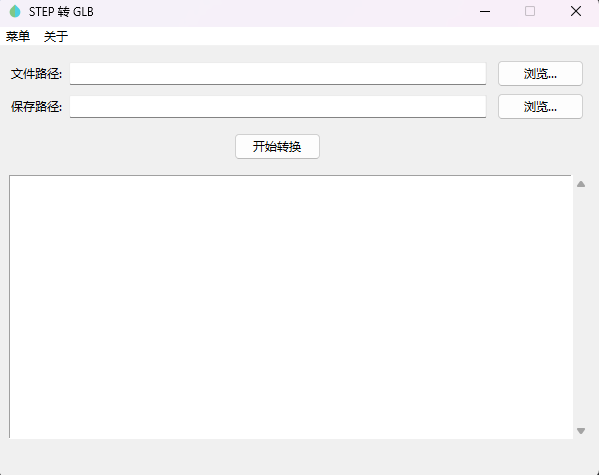
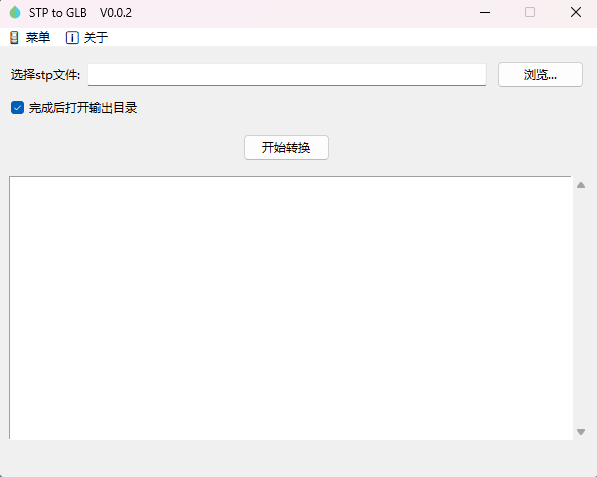
'0.0.2'

diff --git a/stp-to-glb.py b/stp-to-glb.py
@@ -1,8 +1,7 @@
 #!/usr/bin/env python
 # -*- coding: utf-8 -*-
 # Author: 1173381395@qq.com
-
-
+import time
 import tkinter as tk
 from tkinter import ttk, filedialog, messagebox, scrolledtext
 import subprocess
@@ -10,6 +9,8 @@ import threading
 import os
 import re
 import sys
+
+VERSION = "V0.0.2"
 
 
 def resource_path(relative_path):
@@ -31,7 +32,7 @@ class App:
     def __init__(self, root):
         self.root = root
         self.root.iconbitmap(resource_path(r"res/logo.ico"))
-        self.root.title("STEP 转 GLB")
+        self.root.title(f"STP to GLB    {VERSION}")
         self.root.geometry("600x450")
         self.center_window(self.root, 600, 450)
 
@@ -49,6 +50,7 @@ class App:
             "filter_names_file_exclude": tk.StringVar(value=""),
             "tessellation_timeout": tk.IntVar(value=30),
         }
+        self.open_dir = tk.BooleanVar(value=True)
 
         self.input_path = tk.StringVar()
         self.output_path = tk.StringVar()
@@ -61,30 +63,53 @@ class App:
         self.root.config(menu=menubar)
 
         settings_menu = tk.Menu(menubar, tearoff=0)
-        settings_menu.add_command(label="参数设置", command=self.open_settings)
-        menubar.add_cascade(label="菜单", menu=settings_menu)
+        settings_menu.add_command(label="⚙ 参数设置", command=self.open_settings)
+        settings_menu.add_command(label="❌ 退出", command=self.close)
+        menubar.add_cascade(label="🚪 菜单", menu=settings_menu)
+        menubar.add_command(label="ℹ 关于", command=self.show_about)
 
-        about_menu = tk.Menu(menubar, tearoff=0)
-        about_menu.add_command(label="关于", command=self.show_about)
-        menubar.add_cascade(label="关于", menu=about_menu)
+    def create_placeholder_entry(self, parent, textvariable, placeholder_text, **kwargs):
+        """创建带 placeholder 的 Entry"""
+        entry = ttk.Entry(parent, textvariable=textvariable, **kwargs)
+
+        def on_focus_in(event):
+            if textvariable.get() == placeholder_text:
+                textvariable.set("")
+                entry.config(foreground="black")
+
+        def on_focus_out(event):
+            if textvariable.get() == "":
+                textvariable.set(placeholder_text)
+                entry.config(foreground="gray")
+
+        # 初始化状态
+        if not textvariable.get():
+            textvariable.set(placeholder_text)
+            entry.config(foreground="gray")
+
+        entry.bind("<FocusIn>", on_focus_in)
+        entry.bind("<FocusOut>", on_focus_out)
+        return entry
 
     def create_widgets(self):
         frame = ttk.Frame(self.root, padding="10")
         frame.grid(row=0, column=0, sticky=(tk.W, tk.E, tk.N, tk.S))
 
         # 输入路径
-        ttk.Label(frame, text="文件路径:").grid(row=0, column=0, sticky=tk.W, pady=5)
+        ttk.Label(frame, text="选择stp文件:").grid(row=0, column=0, sticky=tk.W, pady=5)
         ttk.Entry(frame, textvariable=self.input_path, width=60).grid(row=0, column=1, padx=5, pady=5)
         ttk.Button(frame, text="浏览...", command=self.browse_input).grid(row=0, column=2, padx=5)
 
         # 输出路径
-        ttk.Label(frame, text="保存路径:").grid(row=1, column=0, sticky=tk.W, pady=5)
-        ttk.Entry(frame, textvariable=self.output_path, width=60).grid(row=1, column=1, padx=5, pady=5)
-        ttk.Button(frame, text="浏览...", command=self.browse_output).grid(row=1, column=2, padx=5)
+        # ttk.Label(frame, text="输出路径:").grid(row=1, column=0, sticky=tk.W, pady=5)
+        # ttk.Entry(frame, textvariable=self.output_path, width=60).grid(row=1, column=1, padx=5, pady=5)
+        # ttk.Button(frame, text="浏览...", command=self.browse_output).grid(row=1, column=2, padx=5)
 
         # 转换按钮
+        ttk.Checkbutton(frame, text="完成后打开输出目录", variable=self.open_dir, onvalue=True, offvalue=False).grid(
+            row=2, column=0, sticky=tk.W, pady=5, columnspan=3)
         self.convert_button = ttk.Button(frame, text="开始转换", command=self.start_conversion)
-        self.convert_button.grid(row=2, column=1, pady=10)
+        self.convert_button.grid(row=3, column=1, pady=10)
 
         # 日志显示
         # ttk.Label(frame, text="日志:").grid(row=3, column=0, sticky=tk.W, pady=5)
@@ -112,6 +137,10 @@ class App:
         window.geometry(f'{width}x{height}+{x}+{y}')
         window.update_idletasks()
         window.resizable(False, False)
+
+    def close(self):
+        self.log("Bye ~")
+        self.root.quit()
 
     def open_settings(self):
         settings_win = tk.Toplevel(self.root)
@@ -235,8 +264,7 @@ class App:
             self.params[var_name].set(path)
 
     def show_about(self):
-        messagebox.showinfo("关于", "STEP 格式转换工具\n版本: 0.0.1\n作者: lorien\nEmail: 1173381395@qq.com\n"
-                                    "Github: https://github.com/lu-xianseng/stptoglb-gui")
+        messagebox.showinfo("关于", f"STEP 格式转换工具\n版本: {VERSION}\n作者: lorien\nEmail: 1173381395@qq.com\n")
 
     def log(self, msg):
         self.log_text.config(state='normal')
@@ -247,8 +275,8 @@ class App:
 
     def start_conversion(self):
         inp = self.input_path.get().strip()
-        out = self.output_path.get().strip()
-        if contains_chinese(inp) or contains_chinese(out):
+        out = os.path.dirname(inp)
+        if contains_chinese(inp):
             messagebox.showerror("错误", "输入输出路径不能包含中文字符！")
             return
         if not inp or not os.path.isfile(inp):
@@ -268,7 +296,7 @@ class App:
         thread.start()
 
     def run_converter(self, input_file, output_path):
-        output_file = f"{output_path}/output.glb"
+        output_file = f"{output_path}/output-{time.strftime("%Y%m%d%H%M%S")}.glb"
         try:
             exe_path = resource_path("res/stptoglb.exe")
             cmd = [exe_path]
@@ -316,7 +344,7 @@ class App:
                 self.log("✅ 转换完成！")
                 # 自动打开输出目录（Windows）
                 try:
-                    if os.path.isdir(output_path):
+                    if os.path.isdir(output_path) and self.open_dir.get():
                         os.startfile(os.path.normpath(output_path))
                 except Exception as e:
                     self.log(f"⚠ 无法打开输出目录: {e}")
